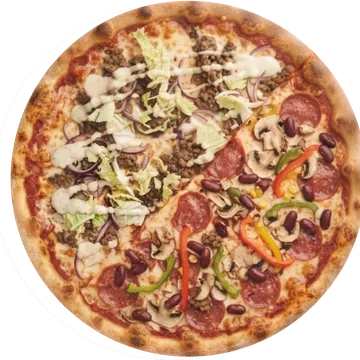
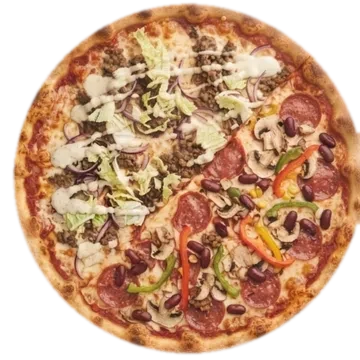
Fix pol-na-pol white edge fringe, shrink sauces on mobile, stronger pizza shadow
Erode/re-feather the alpha edge on the pół na pół photo to remove a
white halo artifact from imperfect background removal (the only pizza
photo that had it). Shrink sauce photos on mobile (max 7rem instead of
11rem below 600px) — they read as oversized on small screens. Give the
pizza-card product photo a more pronounced two-layer shadow instead of
the flat shared --shadow-card, without going overboard.

diff --git a/css/menu.css b/css/menu.css
@@ -267,7 +267,9 @@
   height: 14rem;
   border-radius: 50%;
   overflow: hidden;
-  box-shadow: var(--shadow-card);
+  box-shadow:
+    0 4px 10px -2px rgba(61, 15, 15, 0.28),
+    0 16px 30px -12px rgba(61, 15, 15, 0.38);
   background: var(--cream);
 }
 
@@ -647,6 +649,12 @@
 .sauce-item__photo {
   display: block;
   width: min(11rem, 100%);
+}
+
+@media (max-width: 600px) {
+  .sauce-item__photo {
+    width: min(7rem, 100%);
+  }
 }
 
 .sauce-item__photo img {
